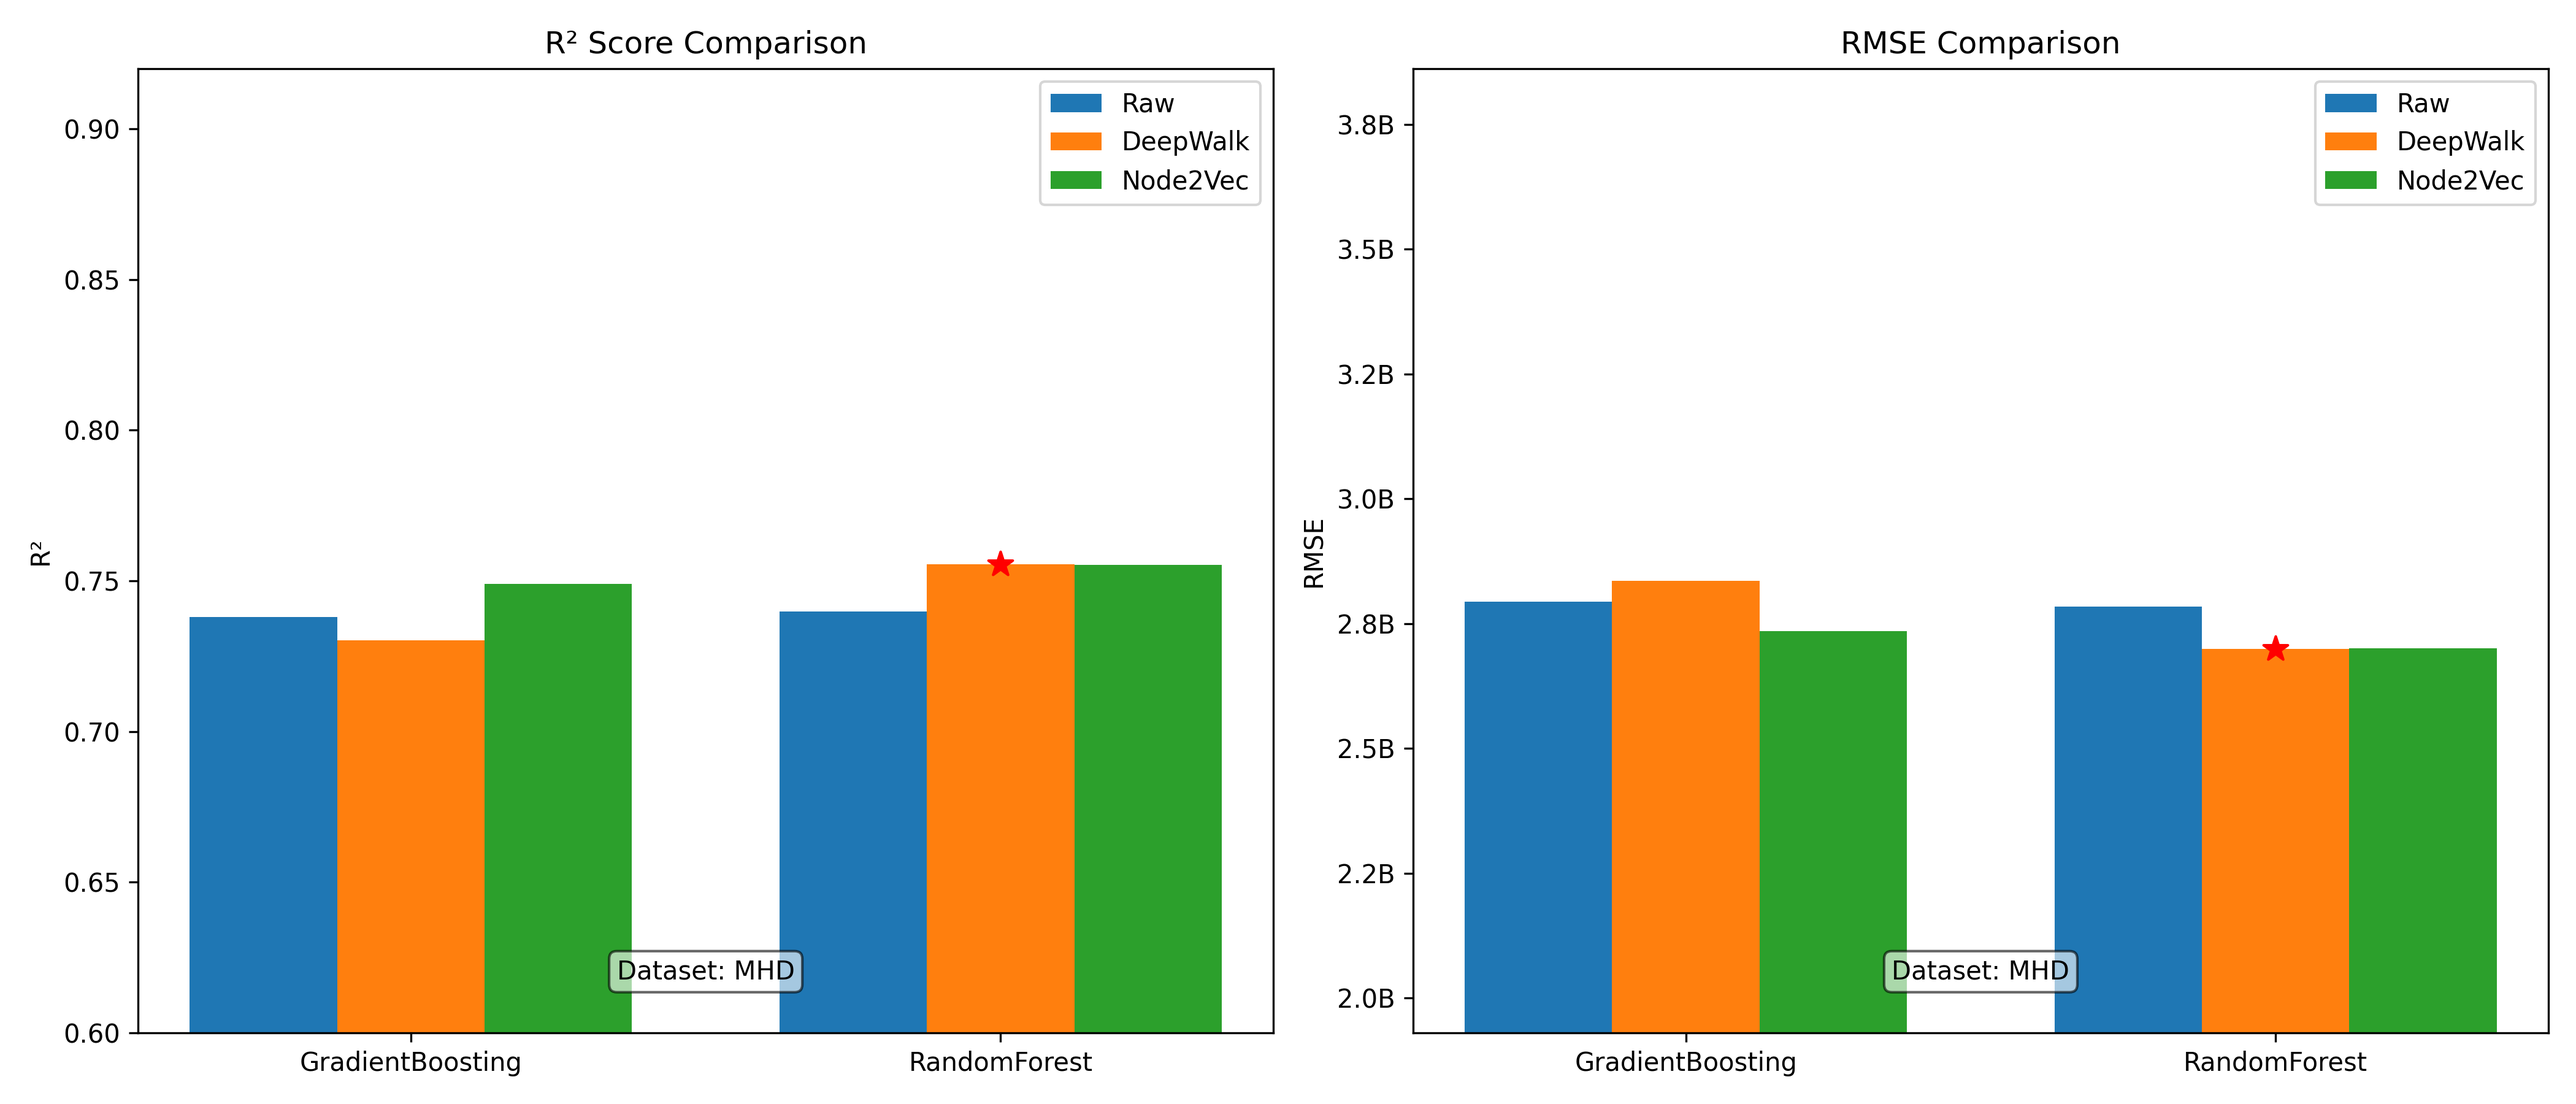
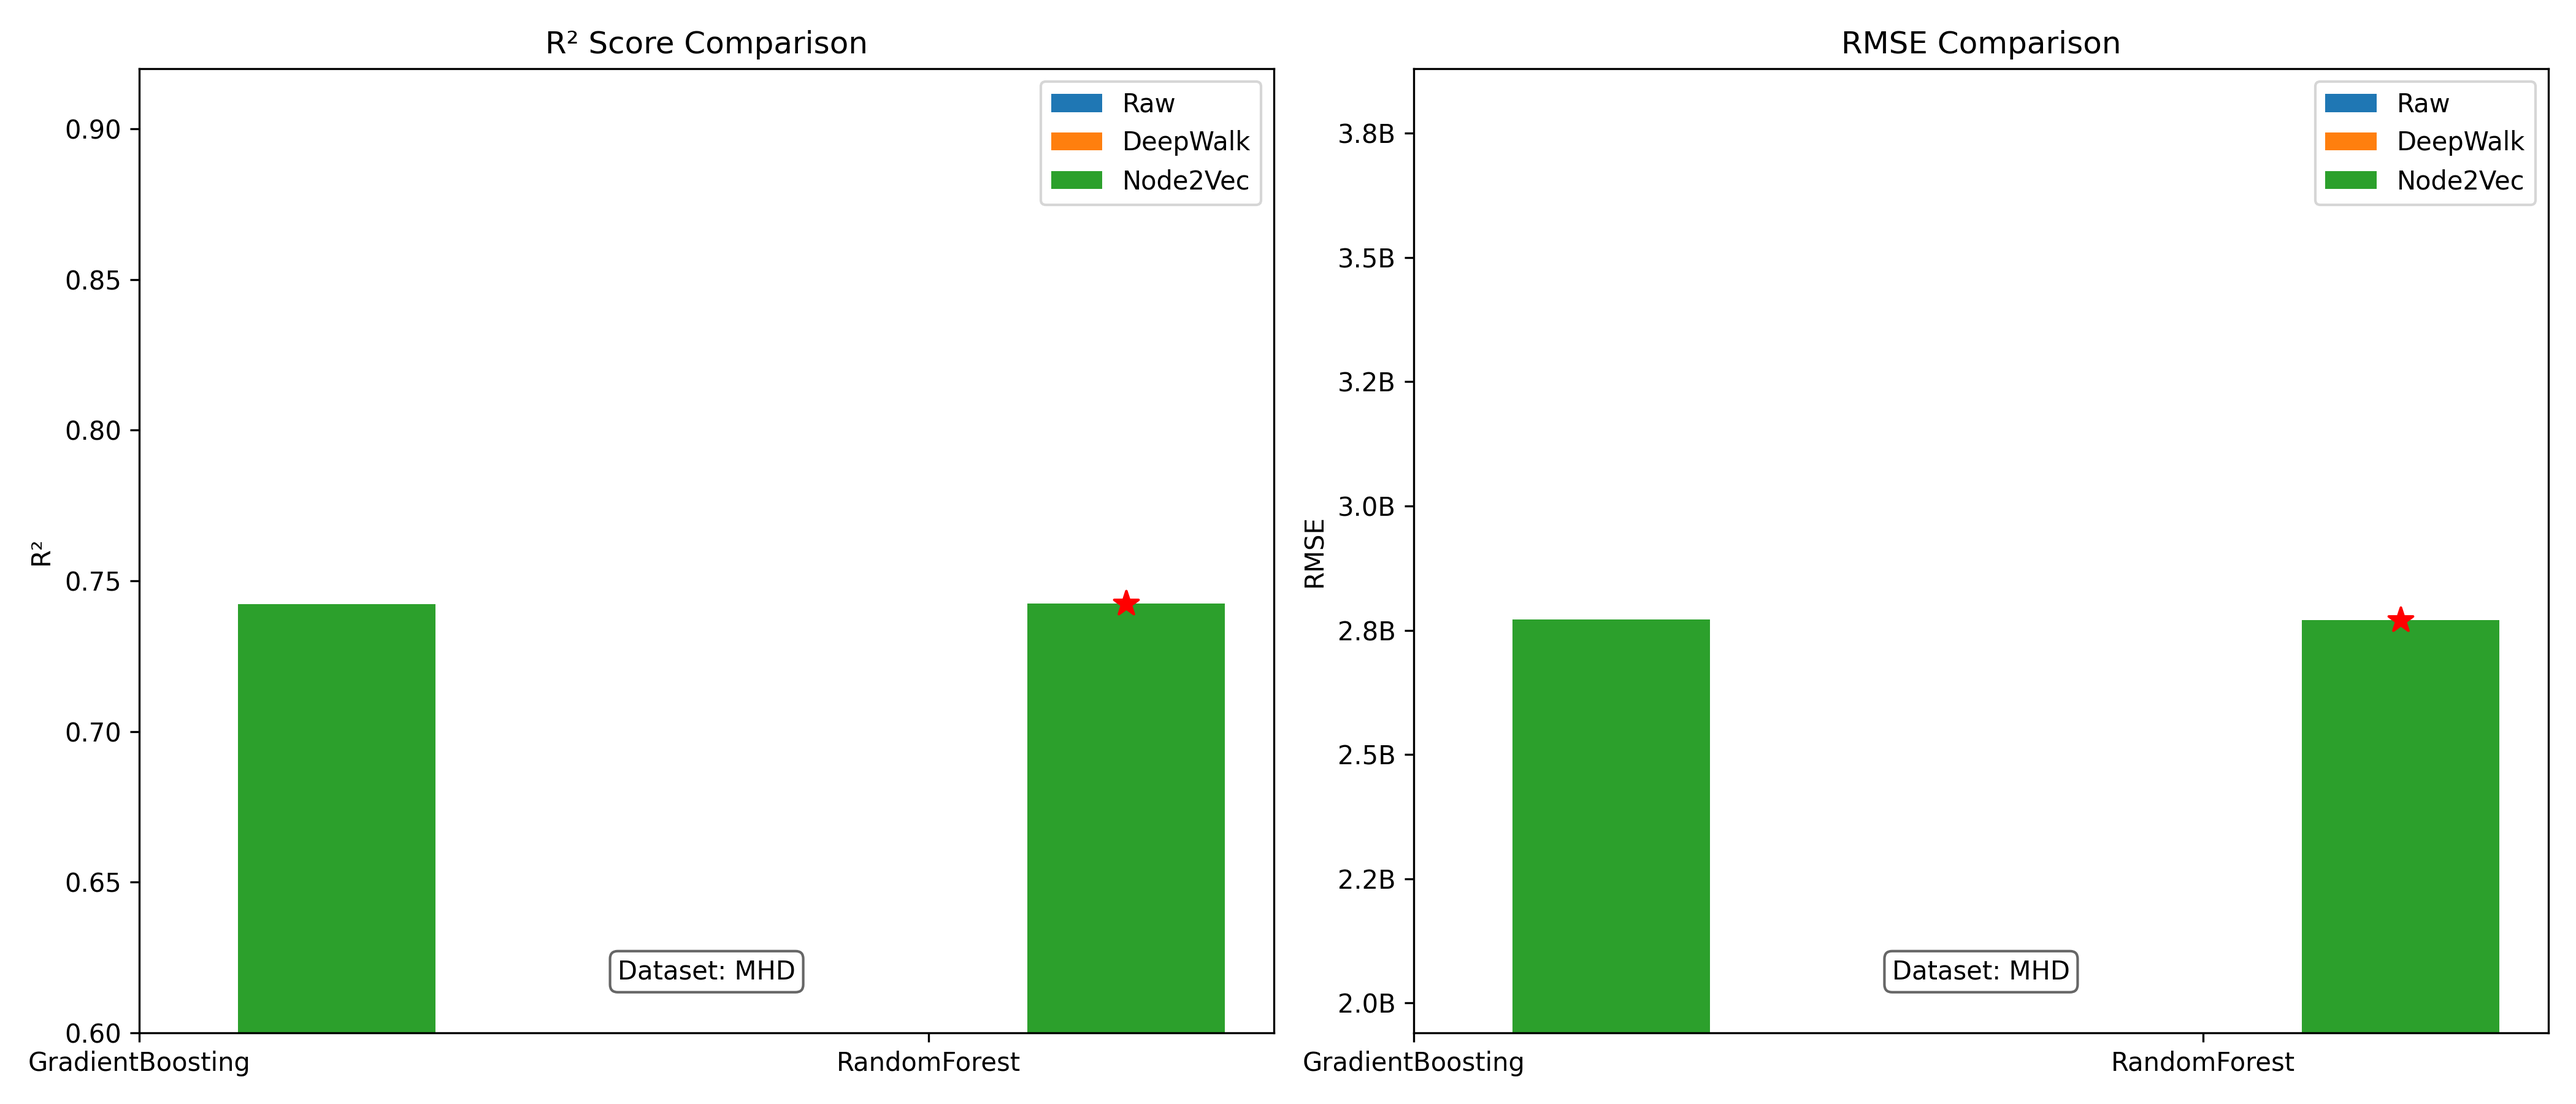
Scaling non geo-features, k=35

diff --git a/main_hpp.py b/main_hpp.py
@@ -39,44 +39,44 @@ def run_experiments(dataset_name, embedding_sizes=[2, 8, 16, 32, 64], num_walks=
         X_base, y, test_size=0.1, random_state=42
     )
 
-    for model_name, model in [
-        ("GradientBoosting", GradientBoostingRegressor(random_state=42)),
-        # ("LinearRegression", LinearRegression()),
-        ("RandomForest", RandomForestRegressor(random_state=42)),
-    ]:
-        metrics = fit_and_evaluate(model, X_train_base, y_train, X_test_base, y_test, verbose=False)
-        results.append([f"{model_name} (Raw)", *metrics])
+    # for model_name, model in [
+    #     ("GradientBoosting", GradientBoostingRegressor(random_state=42)),
+    #     # ("LinearRegression", LinearRegression()),
+    #     ("RandomForest", RandomForestRegressor(random_state=42)),
+    # ]:
+    #     metrics = fit_and_evaluate(model, X_train_base, y_train, X_test_base, y_test, verbose=False)
+    #     results.append([f"{model_name} (Raw)", *metrics])
 
-    # -----------------------------
-    # DeepWalk with grid search
-    # -----------------------------
-    best_dw_size, X_dw, y_dw, _ = grid_search_embedding_size(
-        df, G, embedding_sizes, method="deepwalk", dataset_name=dataset_name, 
-        num_walks=num_walks, walk_length=walk_length, p=p, q=q)
-    X_train, X_test, y_train, y_test = train_test_split(X_dw, y_dw, test_size=0.1, random_state=42)
-    for model_name, model in [
-        ("GradientBoosting", GradientBoostingRegressor(random_state=42)),
-        # ("LinearRegression", LinearRegression()),
-        ("RandomForest", RandomForestRegressor(random_state=42)),
-    ]:
-        metrics = fit_and_evaluate(model, X_train, y_train, X_test, y_test, verbose=False)
-        results.append([f"{model_name} (DeepWalk-ed{best_dw_size}-nw{num_walks}-wl{walk_length})", *metrics])
+    # # -----------------------------
+    # # DeepWalk with grid search
+    # # -----------------------------
+    # best_dw_size, X_dw, y_dw, _ = grid_search_embedding_size(
+    #     df, G, embedding_sizes, method="deepwalk", dataset_name=dataset_name, 
+    #     num_walks=num_walks, walk_length=walk_length, p=p, q=q)
+    # X_train, X_test, y_train, y_test = train_test_split(X_dw, y_dw, test_size=0.1, random_state=42)
+    # for model_name, model in [
+    #     ("GradientBoosting", GradientBoostingRegressor(random_state=42)),
+    #     # ("LinearRegression", LinearRegression()),
+    #     ("RandomForest", RandomForestRegressor(random_state=42)),
+    # ]:
+    #     metrics = fit_and_evaluate(model, X_train, y_train, X_test, y_test, verbose=False)
+    #     results.append([f"{model_name} (DeepWalk-ed{best_dw_size}-nw{num_walks}-wl{walk_length})", *metrics])
 
 
-    # -----------------------------
-    # Node2Vec as DeepWalk, p=1, q=1
-    # -----------------------------
-    best_n2v_size, X_n2v, y_n2v, _ = grid_search_embedding_size(
-        df, G, embedding_sizes, method="node2vec", dataset_name=dataset_name,
-        num_walks=num_walks, walk_length=walk_length, p=1, q=1)
-    X_train, X_test, y_train, y_test = train_test_split(X_n2v, y_n2v, test_size=0.1, random_state=42)  
-    for model_name, model in [
-        ("GradientBoosting", GradientBoostingRegressor(random_state=42)),
-        # ("LinearRegression", LinearRegression()),
-        ("RandomForest", RandomForestRegressor(random_state=42)),
-    ]:     
-        metrics = fit_and_evaluate(model, X_train, y_train, X_test, y_test, verbose=False)
-        results.append([f"{model_name} (Node2Vec-ed{best_n2v_size}-nw{num_walks}-wl{walk_length}-p1-q1)", *metrics])
+    # # -----------------------------
+    # # Node2Vec as DeepWalk, p=1, q=1
+    # # -----------------------------
+    # best_n2v_size, X_n2v, y_n2v, _ = grid_search_embedding_size(
+    #     df, G, embedding_sizes, method="node2vec", dataset_name=dataset_name,
+    #     num_walks=num_walks, walk_length=walk_length, p=1, q=1)
+    # X_train, X_test, y_train, y_test = train_test_split(X_n2v, y_n2v, test_size=0.1, random_state=42)  
+    # for model_name, model in [
+    #     ("GradientBoosting", GradientBoostingRegressor(random_state=42)),
+    #     # ("LinearRegression", LinearRegression()),
+    #     ("RandomForest", RandomForestRegressor(random_state=42)),
+    # ]:     
+    #     metrics = fit_and_evaluate(model, X_train, y_train, X_test, y_test, verbose=False)
+    #     results.append([f"{model_name} (Node2Vec-ed{best_n2v_size}-nw{num_walks}-wl{walk_length}-p1-q1)", *metrics])
 
     # -----------------------------
     # Node2Vec with grid search

diff --git a/utils.py b/utils.py
@@ -74,23 +74,32 @@ def load_dataset(dataset_name: str):
 # -----------------------------
 # Graph construction
 # -----------------------------
-def create_graph_from_dataframe(df, numeric_features, binary_features, k=35, scale_numeric=True, metric="euclidean"):
+def create_graph_from_dataframe(
+    df,
+    numeric_features,
+    binary_features,
+    k=35,
+    scale_numeric=True,
+    metric="euclidean",
+    use_edge_weights=True
+):
     """
-    Fast KNN-based graph construction for housing datasets.
+    KNN-based graph construction for housing datasets.
 
     - numeric_features: continuous attributes (scaled if scale_numeric=True)
     - binary_features: categorical/binary attributes (0/1 encoding)
     - k: number of neighbors per node
     - metric: distance metric for NearestNeighbors ('euclidean', 'cosine', etc.)
+    - use_edge_weights: if True, edges get weights = 1 / (1 + distance)
     """
     df_copy = df.copy()
 
-    # Scale numeric features if requested
+    # Scale only numeric features if requested
     if scale_numeric and numeric_features:
         scaler = StandardScaler()
         df_copy[numeric_features] = scaler.fit_transform(df_copy[numeric_features])
 
-    # Build feature space (coords + numeric + binary)
+    # Build feature space: coords (NOT scaled) + numeric + binary
     feature_list = ["latitude", "longitude"] + numeric_features + (binary_features if binary_features else [])
     X = df_copy[feature_list].to_numpy()
 
@@ -105,13 +114,21 @@ def create_graph_from_dataframe(df, numeric_features, binary_features, k=35, sca
         node_id = int(row['id'])
         G.add_node(node_id, **row.to_dict())
 
-    for i in tqdm(range(len(df)), desc="Building fast KNN graph"):
-        for j in indices[i][1:]:  # skip itself
+    for i in tqdm(range(len(df)), desc="Building KNN graph"):
+        for j_idx, j in enumerate(indices[i][1:]):  # skip itself
+            # enforce type constraint for MHD dataset
             if "type" in df.columns and df.loc[i, "type"] != df.loc[j, "type"]:
-                continue  # enforce type constraint for MHD dataset
-            G.add_edge(df.at[i, "id"], df.at[j, "id"])
+                continue  
+
+            if use_edge_weights:
+                dist = distances[i][j_idx + 1]  # distance to neighbor j
+                weight = 1.0 / (1.0 + dist)
+                G.add_edge(df.at[i, "id"], df.at[j, "id"], weight=weight)
+            else:
+                G.add_edge(df.at[i, "id"], df.at[j, "id"])
 
     return G
+
 
 # -----------------------------
 # DeepWalk
